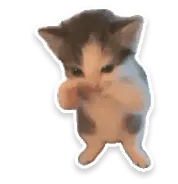
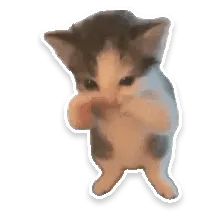
Scuba school of 8, randomly bigger: all frames evenly timed, decoded at idle before the swim, starts fully off screen

diff --git a/src/components/eggs/ScubaCat.tsx b/src/components/eggs/ScubaCat.tsx
@@ -3,8 +3,8 @@
 import { useEffect, useMemo, type CSSProperties } from "react";
 import { play } from "@/lib/sound";
 
-/** How many cats in the flood, and the longest any of them takes (delay + swim). */
-const CATS = 16;
+/** How many cats in the flood (randomly a bit bigger than one sticker), and the longest any of them takes (delay + swim). */
+const CATS = 8;
 const SWIM_MS = 9800;
 
 type Swimmer = { top: number; size: number; delay: number; dur: number; back: boolean; bob: number };
@@ -14,14 +14,14 @@ function school(seed: number): Swimmer[] {
   let s = (seed * 2654435761) % 2 ** 32 || 1;
   const rnd = () => (s = (s * 1664525 + 1013904223) % 2 ** 32) / 2 ** 32;
   // The lead cat swims the middle at full size; it's the one reduced motion keeps.
-  const lead: Swimmer = { top: 38, size: 1, delay: 0.1, dur: 6.2, back: false, bob: 1.6 };
+  const lead: Swimmer = { top: 36, size: 1.2, delay: 0.1, dur: 6.2, back: false, bob: 1.6 };
   return Array.from({ length: CATS }, (_, i) =>
     i === 0
       ? lead
       : {
           // Spread the rows down the screen, then jitter them so it doesn't look like a grid.
-          top: Math.min(86, Math.max(-4, (i / CATS) * 92 - 4 + (rnd() - 0.5) * 10)),
-          size: 0.45 + rnd() * 0.55,
+          top: Math.min(80, Math.max(-6, (i / CATS) * 90 - 6 + (rnd() - 0.5) * 12)),
+          size: 0.75 + rnd() * 0.6,
           delay: rnd() * 3.2,
           dur: 4.8 + rnd() * 1.8,
           back: rnd() < 0.3,
@@ -32,14 +32,14 @@ function school(seed: number): Swimmer[] {
 
 /**
  * His scuba-cat sticker: a transparent cut-out whose white die-cut edge and shadow are baked
- * into the WebP (no CSS filters, so sixteen of them stay cheap). Upright, mirrored when
+ * into the WebP (no CSS filters, so a school of them stays cheap). Upright, mirrored when
  * swimming right to left. The still frame stands in under reduced motion.
  */
 function CatDiver({ flip, size }: { flip: boolean; size: number }) {
   return (
     <picture className="block" style={{ width: `calc(clamp(150px, 17vw, 220px) * ${size})`, scale: flip ? "-1 1" : undefined }}>
       <source srcSet="/stickers/cats/scuba-still.webp" media="(prefers-reduced-motion: reduce)" />
-      <img src="/stickers/cats/scuba.webp" alt="" width={178} height={184} decoding="async" className="block h-auto w-full" />
+      <img src="/stickers/cats/scuba.webp" alt="" width={210} height={216} decoding="async" className="block h-auto w-full" />
     </picture>
   );
 }
@@ -84,7 +84,7 @@ export function ScubaCat({ run, onDone }: { run: number; onDone: () => void }) {
         >
           <div className="scuba-bob relative" style={{ animationDuration: `${c.bob}s` }}>
             <CatDiver flip={c.back} size={c.size} />
-            {i % 4 === 0 && <Bubbles />}
+            {i % 3 === 0 && <Bubbles />}
           </div>
         </div>
       ))}

diff --git a/src/components/shell/LazyOverlays.tsx b/src/components/shell/LazyOverlays.tsx
@@ -13,6 +13,26 @@ const ArceePanel = dynamic(() => import("@/components/arcee/ArceePanel").then((m
 const Terminal = dynamic(() => import("@/components/eggs/Terminal").then((m) => m.Terminal), { ssr: false });
 const ScubaCat = dynamic(() => import("@/components/eggs/ScubaCat").then((m) => m.ScubaCat), { ssr: false });
 
+/**
+ * Fetch and decode the scuba sticker (and its code) ahead of the swim, so the first
+ * frames don't hitch while 16 cats start at once. Kept in memory once decoded.
+ */
+let scubaReady: Promise<void> | null = null;
+let scubaImage: HTMLImageElement | null = null;
+function warmScuba(): Promise<void> {
+  if (!scubaReady) {
+    const still = window.matchMedia("(prefers-reduced-motion: reduce)").matches;
+    scubaImage = new Image();
+    scubaImage.src = still ? "/stickers/cats/scuba-still.webp" : "/stickers/cats/scuba.webp";
+    scubaReady = Promise.all([scubaImage.decode(), import("@/components/eggs/ScubaCat")])
+      .then(() => undefined)
+      .catch(() => {
+        scubaReady = null;
+      });
+  }
+  return scubaReady;
+}
+
 /** Warm the chat chunk when a visitor shows intent (nav bar opened). */
 export function preloadArcee() {
   void import("@/components/arcee/ArceePanel");
@@ -32,7 +52,8 @@ export function LazyOverlays({ now }: { now: { repo: string; message: string } |
 
   useEffect(() => {
     const launchScuba = () => {
-      setScubaRun((n) => n + 1);
+      // Start once the sticker is decoded (or after a short wait if the network is slow).
+      void Promise.race([warmScuba(), new Promise((r) => window.setTimeout(r, 1200))]).then(() => setScubaRun((n) => n + 1));
       foundEgg("scuba", "Easter egg found: scuba cat", "It's also a real Linux boot animation: github.com/iteshxt/scuba-cat");
     };
     const onKey = (e: KeyboardEvent) => {
@@ -50,7 +71,13 @@ export function LazyOverlays({ now }: { now: { repo: string; message: string } |
     };
     window.addEventListener("keydown", onKey);
     window.addEventListener("egg:scuba", launchScuba);
+    // Warm the sticker once the page is idle (skipped when the visitor asked to save data).
+    const saveData = (navigator as Navigator & { connection?: { saveData?: boolean } }).connection?.saveData;
+    const canIdle = typeof window.requestIdleCallback === "function";
+    const idle = saveData ? 0 : canIdle ? window.requestIdleCallback(() => void warmScuba(), { timeout: 2500 }) : window.setTimeout(() => void warmScuba(), 2500);
     return () => {
+      if (idle && canIdle) window.cancelIdleCallback(idle);
+      else if (idle) window.clearTimeout(idle);
       window.removeEventListener("keydown", onKey);
       window.removeEventListener("egg:scuba", launchScuba);
     };

diff --git a/docs/design.md b/docs/design.md
@@ -219,7 +219,7 @@ No 3D (three.js was removed). Each star project shows its real artwork, all CSS:
 - **No photo of Itesh** (dropped 2026-11-16).
 - **Name and titles (2026-11-16):** the site says "Itesh Tomar" (`SITE.display`), never the long name and role. Home title and share cards: "Itesh Tomar — ships, mostly on time" (`SITE.tagline`); inner pages: "Work · Itesh Tomar". The full name stays only in the printed resume, structured data and Arcee's knowledge.
 - **Logo (2026-11-16):** the two-sticker "i": a lime pill stem and a violet dot, each with a white die-cut border, the stem tilted 6°, and the dot's lower-right edge peeling back (light violet flap). Wordmark = the sticker i + "tesh" in Instrument Serif italic (`ui/LogoMark` → `Wordmark`, top bar; the violet intro uses the white line version). Favicon and Apple icon put the mark on an ink rounded square. **Line version** (`LogoMark variant="line"`, `public/logo-line.svg`, `public/icon-mono.svg`) for one-colour uses: the printed resume and the monochrome manifest icon.
-- **Scuba cat:** his own transparent scuba sticker (`stickers/cats/scuba.webp`, from his scuba.gif: 178 px, 36 frames, ~122 KB, with the white die-cut edge and shadow baked into the frames so no CSS filters run; still frame for reduced motion), upright, never tilted: a flood of 16 of them (random rows, sizes, speeds, about a third swimming the other way) for the Konami code, `scuba` and the barcode egg; reduced motion keeps one calm cat.
+- **Scuba cat:** his own transparent scuba sticker (`stickers/cats/scuba.webp`, from his scuba.gif: 200 px + edge, all 53 frames evenly timed at 83 ms, ~195 KB, with the white die-cut edge and shadow baked into the frames so no CSS filters run; decoded at idle before it's needed; still frame for reduced motion), upright, never tilted: a school of 8 (random rows, sizes from 0.75× to 1.35× a sticker, speeds, about a third swimming the other way) for the Konami code, `scuba` and the barcode egg; reduced motion keeps one calm cat.
 
 ## 9. Sound
 
